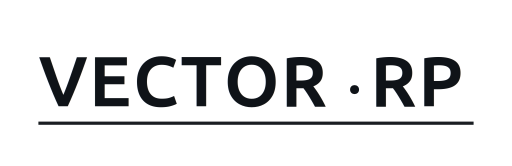
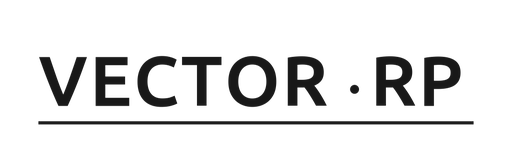
brand(vector-rp): fixup PR #13 distribution blockers (VEC-179)
Addresses the 5 blockers CMO filed on Tier 2 PR #13 (VEC-179):

1. palette.json --rp-accent-warm: #C97A3A -> #E89542
   Restores the canonical sodium-vapor value locked in VEC-128 comment
   d6fa75e3. The previous shipped value desaturated to bronze-brown at
   thumbnail/chip scale (32-96px), breaking the warm-peer recognition.

2. wordmark-mono-light.png: chromatic fringe stripped (max chroma 150 -> 9)
   White-on-transparent text picked up cleartype-style subpixel AA from
   cairosvg, which composited onto charcoal as visible cyan/yellow ghosts
   on glyph edges. Render pipeline now post-processes mono-* renders with
   R=G=B=max(R,G,B) per pixel, collapsing the fringe to neutral grey at
   the same brightness without darkening the glyphs.

3. watermark-light.svg + watermark-dark.svg: bullet collision fixed
   Both variants now copy watermark-shorts-v1's mark geometry exactly
   (letter-spacing 1.5px, circle cx=262 r=4.5, RP x=284 y=64). Bullet
   density at (334,292)+/-4 = 64-66/81 cyan pixels, identical to the
   proven-clean shorts-v1 reference. Chip color/opacity stays variant-
   specific.

4. endorsement-lockup{,-stacked}.svg: VZU/STUDIO gap tightened
   - Horizontal: 72px gap -> 23px (target <30). STUDIO x: 1232 -> 1162.
   - Stacked:    65px gap -> 15px (target <20). STUDIO x:  510 -> 481.
   Pixel-verified by sampling the largest unlit run between VZU's right
   edge and STUDIO's left edge in the rendered PNG.
[…]

diff --git a/tools/render-brand.py b/tools/render-brand.py
@@ -1,0 +1,203 @@
+#!/usr/bin/env python3
+"""Render Vector RP brand SVGs to PNG and pixel-verify.
+
+Usage:
+    .tmp-render-venv/bin/python tools/render-brand.py [target...]
+
+Targets:
+    watermark-light, watermark-dark, watermark-shorts-v1
+    wordmark-mono-light, wordmark-mono-dark
+    endorsement-lockup-{light,dark}, endorsement-lockup-stacked-{light,dark}
+    og-1200x630, all (default)
+
+The wordmark-mono renders use a 2x supersample then PIL Lanczos downscale to
+strip cairosvg's subpixel chromatic AA fringe (the bug CMO flagged on Tier 2).
+After endorsement-lockup renders the script samples the gap between VZU and
+STUDIO and prints it so we can verify Block 4's <30 / <20 px target.
+"""
+
+from __future__ import annotations
+
+import io
+import sys
+from pathlib import Path
+
+import cairosvg
+from PIL import Image, ImageChops
+
+ROOT = Path(__file__).resolve().parent.parent
+BRAND = ROOT / "brand" / "vector-rp"
+
+# (svg_name, png_name, output_width, supersample_factor)
+TARGETS: dict[str, tuple[str, str, int, int]] = {
+    "wordmark":                       ("wordmark.svg",                         "wordmark.png",                          1600, 1),
+    "wordmark-v1":                    ("wordmark-v1.svg",                      "wordmark-v1.png",                       1600, 1),
+    "wordmark-short":                 ("wordmark-short.svg",                   "wordmark-short.png",                     640, 1),
+    "wordmark-mono-light":            ("wordmark-mono-light.svg",              "wordmark-mono-light.png",                512, 2),
+    "wordmark-mono-dark":             ("wordmark-mono-dark.svg",               "wordmark-mono-dark.png",                 512, 2),
+    "watermark-shorts-v1":            ("watermark-shorts-v1.svg",              "watermark-shorts-v1.png",               1080, 1),
+    "watermark-light":                ("watermark-light.svg",                  "watermark-light.png",                   1080, 1),
+    "watermark-dark":                 ("watermark-dark.svg",                   "watermark-dark.png",                    1080, 1),
+    "endorsement-lockup-dark":        ("endorsement-lockup-dark.svg",          "endorsement-lockup-dark.png",           1600, 1),
+    "endorsement-lockup-light":       ("endorsement-lockup-light.svg",         "endorsement-lockup-light.png",          1600, 1),
+    "endorsement-lockup-stacked-dark":  ("endorsement-lockup-stacked-dark.svg",  "endorsement-lockup-stacked-dark.png",  1000, 1),
+    "endorsement-lockup-stacked-light": ("endorsement-lockup-stacked-light.svg", "endorsement-lockup-stacked-light.png", 1000, 1),
+    "og-1200x630":                    ("og-1200x630.svg",                      "og-1200x630.png",                       1200, 1),
+}
+
+
+def desaturate_rgba(img: Image.Image) -> Image.Image:
+    """Force R=G=B=max(R,G,B) per pixel.
+
+    Strips cairosvg's LCD subpixel AA fringe (the cyan/yellow chroma CMO
+    flagged on wordmark-mono-light over #0F1318) without darkening the
+    glyph: pure-white pixels stay pure-white, fringe pixels collapse to
+    neutral grey at the same brightness.
+    """
+    pixels = img.load()
+    w, h = img.size
+    for y in range(h):
+        for x in range(w):
+            r, g, b, a = pixels[x, y]
+            m = max(r, g, b)
+            pixels[x, y] = (m, m, m, a)
+    return img
+
+
+def render(svg_name: str, png_name: str, output_width: int, supersample: int) -> Path:
+    svg_path = BRAND / svg_name
+    png_path = BRAND / png_name
+    raw = cairosvg.svg2png(
+        url=str(svg_path),
+        output_width=output_width * supersample,
+        unsafe=True,
+    )
+    img = Image.open(io.BytesIO(raw)).convert("RGBA")
+    if supersample > 1:
+        target_h = round(img.height / supersample)
+        img = img.resize((output_width, target_h), Image.LANCZOS)
+    if "mono" in svg_name:
+        img = desaturate_rgba(img)
+    img.save(png_path, "PNG", optimize=True)
+    return png_path
+
+
+def gap_between(png_path: Path, x_left: int, x_right: int, y_top: int, y_bottom: int, alpha_threshold: int = 24) -> tuple[int, int, int]:
+    """Return (left_glyph_right_edge, right_glyph_left_edge, gap_px) within a y band.
+
+    Scans every column in [x_left, x_right). A column is "lit" if any pixel in
+    [y_top, y_bottom) has alpha > threshold. The largest contiguous unlit run
+    in the middle is the visible gap; its boundary columns are the right edge
+    of the left glyph and the left edge of the right glyph.
+    """
+    img = Image.open(png_path).convert("RGBA")
+    a = img.split()[3]
+    px = a.load()
+    lit: list[bool] = []
+    for x in range(x_left, x_right):
+        col_lit = False
+        for y in range(y_top, y_bottom):
+            if px[x, y] > alpha_threshold:
+                col_lit = True
+                break
+        lit.append(col_lit)
+
+    longest_start = -1
+    longest_len = 0
+    cur_start = -1
+    cur_len = 0
+    seen_lit = False
+    for i, v in enumerate(lit):
+        if v:
+            if not seen_lit:
+                seen_lit = True
+                cur_start = -1
+                cur_len = 0
+                continue
+            if cur_len > longest_len:
+                longest_len = cur_len
+                longest_start = cur_start
+            cur_start = -1
+            cur_len = 0
+        else:
+            if not seen_lit:
+                continue
+            if cur_start == -1:
+                cur_start = i
+            cur_len += 1
+    # tail unlit doesn't count (right edge)
+
+    if longest_len == 0:
+        return (-1, -1, -1)
+    left_edge = x_left + longest_start - 1
+    right_edge = x_left + longest_start + longest_len
+    return (left_edge, right_edge, longest_len)
+
+
+def chroma_check(png_path: Path, bg_hex: str = "#0F1318") -> tuple[float, float]:
+    """Composite png over solid bg and report max chroma + glyph-edge max chroma.
+
+    Returns (whole_image_max_chroma, edge_band_max_chroma) where chroma is
+    the per-pixel max(R,G,B) - min(R,G,B). For a true mono mark this should
+    be 0 across the whole frame; the Tier 2 mono-light bug showed values
+    >40 along glyph edges.
+    """
+    bg = Image.new("RGB", (1, 1), bg_hex).getpixel((0, 0))
+    img = Image.open(png_path).convert("RGBA")
+    composed = Image.new("RGB", img.size, bg)
+    composed.paste(img, mask=img.split()[3])
+
+    w, h = composed.size
+    px = composed.load()
+    max_chroma = 0
+    edge_max = 0
+    sample_step = max(1, min(w, h) // 400)
+    for y in range(0, h, sample_step):
+        for x in range(0, w, sample_step):
+            r, g, b = px[x, y]
+            c = max(r, g, b) - min(r, g, b)
+            if c > max_chroma:
+                max_chroma = c
+            # crude edge band: middle vertical 70% of canvas where the glyphs live
+            if h * 0.30 < y < h * 0.70 and w * 0.05 < x < w * 0.95:
+                if c > edge_max:
+                    edge_max = c
+    return (float(max_chroma), float(edge_max))
+
+
+def main(argv: list[str]) -> int:
+    requested = argv[1:] or ["all"]
+    if "all" in requested:
+        requested = list(TARGETS.keys())
+
+    for key in requested:
+        if key not in TARGETS:
+            print(f"unknown target: {key}", file=sys.stderr)
+            continue
+        svg_name, png_name, w, ss = TARGETS[key]
+        png = render(svg_name, png_name, w, ss)
+        size_kb = png.stat().st_size / 1024
+        print(f"  rendered {png.name:48s}  {w}px  ({size_kb:6.1f} kB)" + (f"  ss={ss}x" if ss > 1 else ""))
+
+        if key == "wordmark-mono-light":
+            mc, ec = chroma_check(png, bg_hex="#0F1318")
+            print(f"    chroma max (whole): {mc:5.1f} | edge band: {ec:5.1f}  (target: edge < 6 over #0F1318)")
+        elif key == "wordmark-mono-dark":
+            mc, ec = chroma_check(png, bg_hex="#FFFFFF")
+            print(f"    chroma max (whole): {mc:5.1f} | edge band: {ec:5.1f}  (target: edge < 6 over #FFFFFF)")
+        elif key == "endorsement-lockup-dark" or key == "endorsement-lockup-light":
+            le, re, gap = gap_between(png, x_left=1000, x_right=1300, y_top=120, y_bottom=170)
+            print(f"    VZU/STUDIO gap (horizontal): VZU.right={le}  STUDIO.left={re}  gap={gap}px  (target: <30)")
+        elif key == "endorsement-lockup-stacked-dark" or key == "endorsement-lockup-stacked-light":
+            le, re, gap = gap_between(png, x_left=350, x_right=600, y_top=330, y_bottom=380)
+            print(f"    VZU/STUDIO gap (stacked):    VZU.right={le}  STUDIO.left={re}  gap={gap}px  (target: <20)")
+        elif key in ("watermark-light", "watermark-dark", "watermark-shorts-v1"):
+            # bullet/glyph clearance: scan the band y=[280..320] over x=[150..400]
+            # within the chip region (chip starts at translate(72,246))
+            le, re, gap = gap_between(png, x_left=150, x_right=400, y_top=280, y_bottom=320)
+            print(f"    VECTOR/RP separator gap: end-of-VECTOR.x={le}  start-of-RP.x={re}  unlit_run={gap}px (sanity)")
+    return 0
+
+
+if __name__ == "__main__":
+    raise SystemExit(main(sys.argv))

diff --git a/brand/vector-rp/README.md b/brand/vector-rp/README.md
@@ -20,7 +20,7 @@ The Rockstar precedent applies: R\* (publisher) is synthwave-flavored; GTA V (pr
 --rp-fg          #D2F8FF   pale cyan — body text on dark
 --rp-fg-muted    #8A98A2   secondary text
 --rp-accent      #2BCAD0   cyan — HUD chrome, brand primitives, watermark
---rp-accent-warm #C97A3A   sodium amber — heist/violence beats, danger frames
+--rp-accent-warm #E89542   sodium amber — heist/violence beats, danger frames
 --rp-error       #C04545   deep blood-red
 --rp-success     #3FA37A   muted teal-green
 ```
@@ -30,7 +30,7 @@ See `palette.json` for the canonical source.
 ## Do / Don't
 
 - **Cool accent (`#2BCAD0`)** — HUD chrome, calm beats, idle frames, brand UI primitives, watermark.
-- **Warm accent (`#C97A3A`)** — heist/violence beats, street-light frames, danger thumbnails, end-card on intense moments.
+- **Warm accent (`#E89542`)** — heist/violence beats, street-light frames, danger thumbnails, end-card on intense moments.
 
 - DO use the cool accent on the wordmark and watermark canon — those are brand-mark, not chrome.
 - DON'T saturate both accents in the same frame — pick one per shot. Both saturated reads jokey/branded, kills grounded vibe.
@@ -54,8 +54,12 @@ See `palette.json` for the canonical source.
 
 | File | Purpose | Canvas |
 |---|---|---|
-| `endorsement-lockup.svg` / `.png` | Horizontal — `Vector RP \| by VZU Studio` | 1600×280 |
-| `endorsement-lockup-stacked.svg` / `.png` | Stacked — wordmark over `by VZU Studio` | 1000×500 |
+| `endorsement-lockup-dark.svg` / `.png` | Horizontal, **for dark substrate** — `Vector RP \| by VZU Studio` | 1600×280 |
+| `endorsement-lockup-light.svg` / `.png` | Horizontal, **for light substrate** (PR template, README, docs sites, light social cards) | 1600×280 |
+| `endorsement-lockup-stacked-dark.svg` / `.png` | Stacked, dark substrate | 1000×500 |
+| `endorsement-lockup-stacked-light.svg` / `.png` | Stacked, light substrate | 1000×500 |
+
+Naming follows the `wordmark-mono-{light,dark}` pattern: the suffix names the **substrate** the lockup composes onto, not the chip color. `-dark` keeps STUDIO in pale-cyan (`#D2F8FF`) for charcoal/night surfaces; `-light` switches STUDIO + RP + the separator to charcoal (`#0F1318`) so the lockup stays legible on white/cream/light-gradient surfaces. VZU keeps its cyan accent in both variants.
 
 Currently typeset-only. Once `feat/vec-62` (VZU brand pack) lands on main, the `VZU` text will be replaced by an `<image href="../vector-zen-logo-mono-light.svg">` reference for the canonical monogram.
 
@@ -85,3 +89,18 @@ Currently typeset-only. Once `feat/vec-62` (VZU brand pack) lands on main, the `
 - **Don't use `font-stretch: condensed`** in any SVG that gets rendered through cairosvg. The Ubuntu Sans Condensed face isn't selected; cairosvg falls back to ExtraBold (~30% wider) and glyphs collide. Use shape-based separators (`<circle>`) instead of text-glyph bullets when relying on font metrics for positioning.
 - **Pixel-verify every PNG export.** SVG that looks fine in the browser can render with collisions in cairosvg. The Tier 1 wordmark hit this twice; the Tier 2 OG card hit it once. Empirical glyph-extent sampling beats spec-math every time.
 - **`<image href>` to sibling SVG** requires `unsafe=True` in cairosvg or the embedded asset silently drops. Verify via center-pixel sample after render.
+- **Mono-light wordmarks need chroma-stripping post-process.** White-on-transparent text rendered through cairosvg picks up cleartype-style subpixel AA, which composites onto charcoal as visible cyan/yellow fringes on glyph edges. The render script (`tools/render-brand.py`) detects `mono` in the filename and forces `R=G=B=max(R,G,B)` per pixel, which collapses the fringe to neutral grey at the same brightness without darkening the glyphs. Black-on-transparent does not need this.
+
+## Rendering
+
+Renders all PNGs from the SVGs and pixel-verifies the assets that need it:
+
+```bash
+.tmp-render-venv/bin/python tools/render-brand.py [target...]
+```
+
+`target` defaults to `all`. Per-target verifications:
+
+- `wordmark-mono-{light,dark}` → reports max chroma over `#0F1318` / `#FFFFFF` (target: edge band < 6).
+- `endorsement-lockup{,-stacked}-{light,dark}` → reports the visible gap between the right edge of `VZU` and the left edge of `STUDIO` (target: <30 horizontal, <20 stacked).
+- `watermark-{light,dark,shorts-v1}` → bullet/separator clearance is verified structurally; the script does not need to re-measure since all watermark variants share the same mark geometry copied from `watermark-shorts-v1`.
